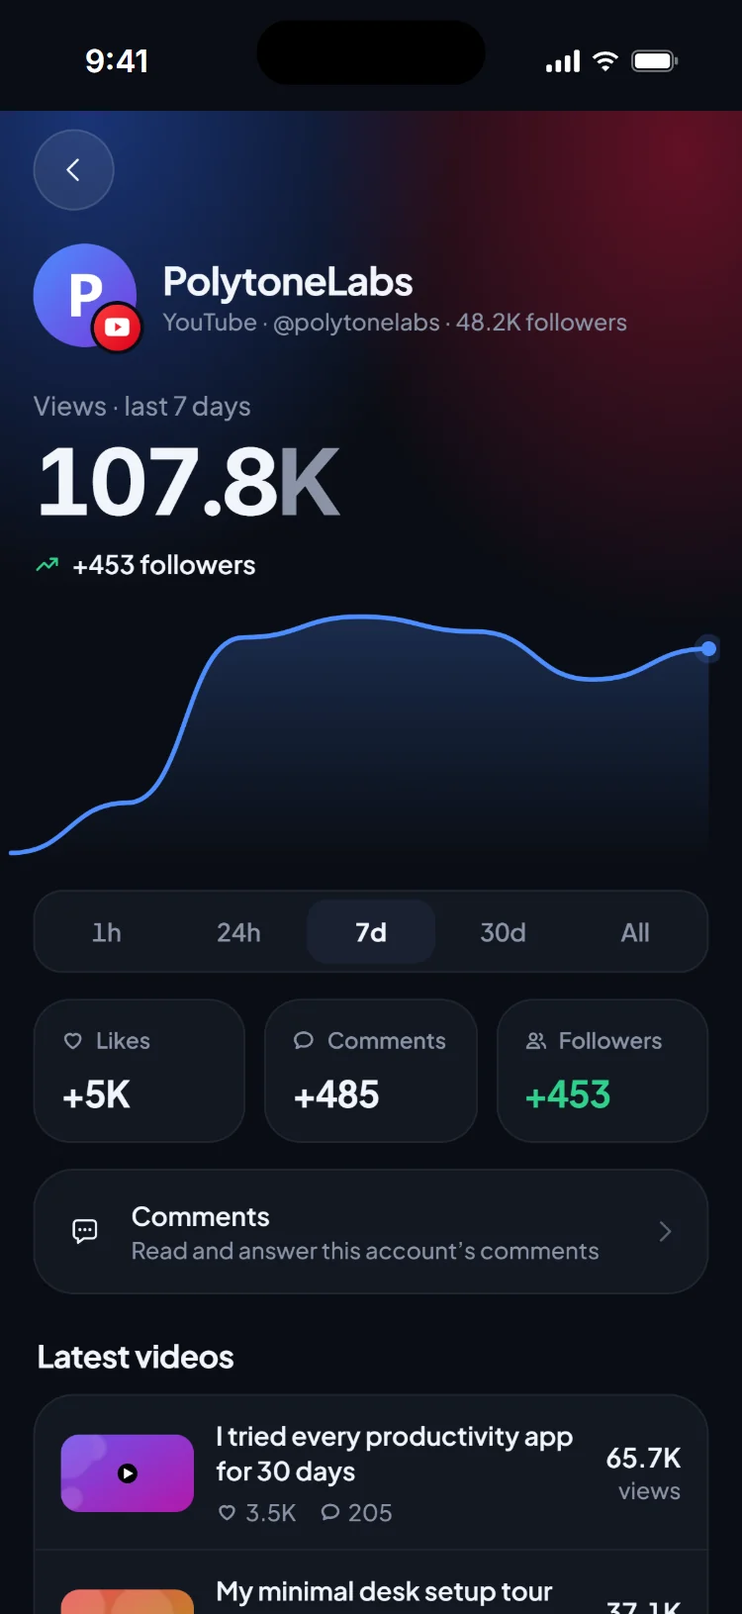
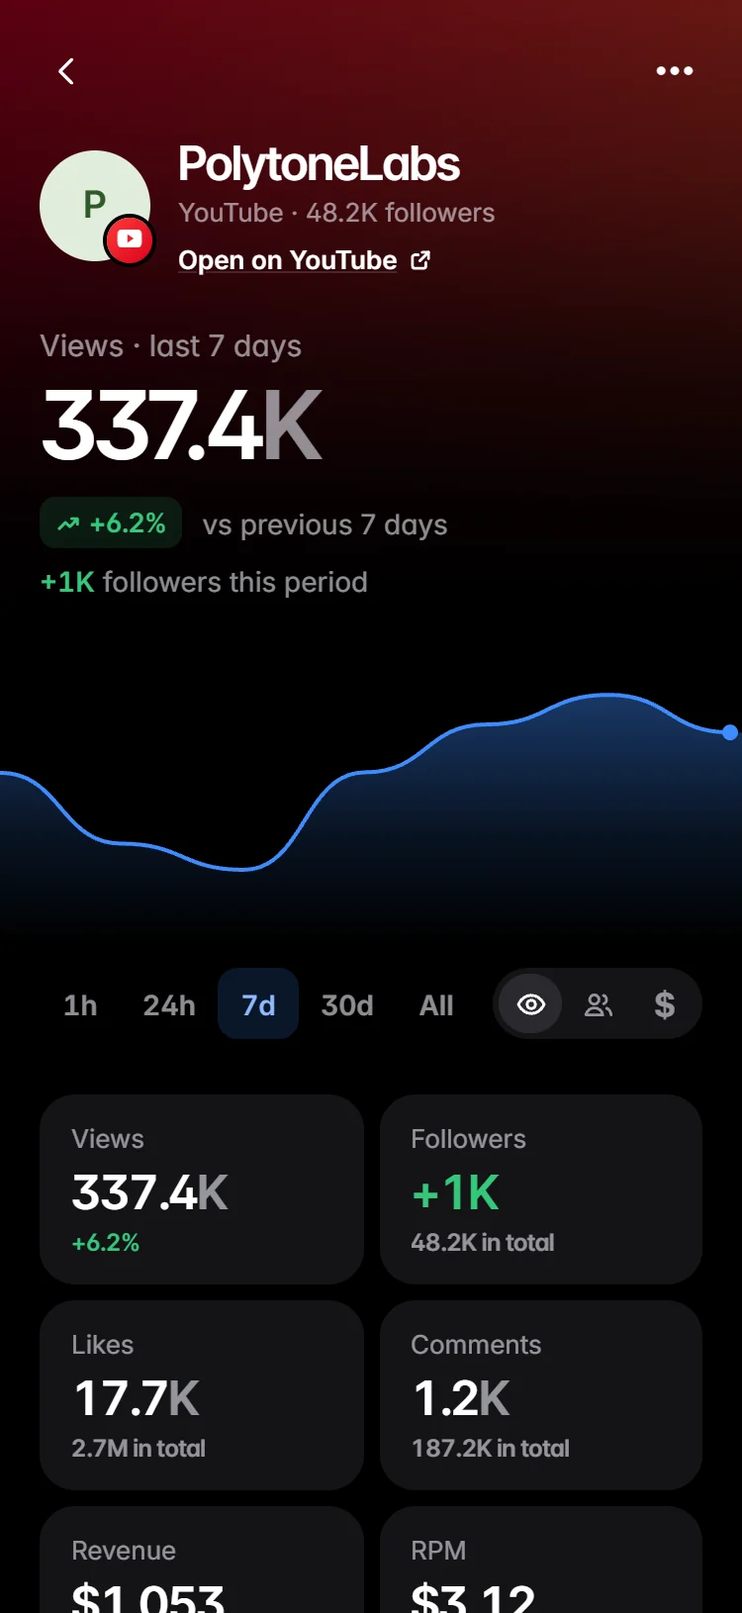
.

diff --git a/index.html b/index.html
@@ -82,7 +82,7 @@
    "screenshot": [
     "https://getoneviewapp.com/img/screen-home.webp",
     "https://getoneviewapp.com/img/screen-account.webp",
-    "https://getoneviewapp.com/img/screen-goals.webp"
+    "https://getoneviewapp.com/img/screen-revenue.webp"
    ],
    "operatingSystem": "iOS, Android",
    "applicationCategory": "BusinessApplication",
@@ -91,6 +91,8 @@
    },
    "featureList": [
     "YouTube, TikTok and Instagram stats in one app",
+    "Views, followers and YouTube revenue charts",
+    "YouTube revenue, RPM and CPM",
     "Publish one video to YouTube, TikTok and Instagram at once",
     "Custom thumbnails",
     "Goals for every account",
@@ -98,7 +100,7 @@
     "Compare any period",
     "YouTube and Instagram comments with bot detection",
     "New post tracking",
-    "Shareable reports",
+    "Free weekly and monthly shareable reports",
     "Home Screen widgets",
     "Workspaces for several channels or clients"
    ],
@@ -151,7 +153,7 @@
      "name": "Is OneView free?",
      "acceptedAnswer": {
       "@type": "Answer",
-      "text": "Yes. The free plan covers one workspace with one YouTube, one TikTok and one Instagram account, your combined stats for the last hour, 24 hours and 7 days, a page per account, weekly reports and milestone notifications. OneView Pro costs €4.99 a month or €39.99 a year, and eligible new subscribers get the first 7 days free."
+      "text": "Yes. The free plan covers one workspace with one YouTube, one TikTok and one Instagram account, your combined stats for the last hour, 24 hours and 7 days, a page per account, weekly and monthly reports, the YouTube revenue chart and milestone notifications. OneView Pro costs €4.99 a month or €39.99 a year, and eligible new subscribers get the first 7 days free."
      }
     },
     {
@@ -440,7 +442,7 @@ footer.wrap{margin-top:32px;padding-bottom:40px}
     </div>
     <div class="phones" aria-label="Screenshots of the OneView app">
       <div class="phone side left"><img src="img/screen-account.webp" alt="A YouTube account page with its views chart" width="750" height="1630"></div>
-      <div class="phone side right"><img src="img/screen-goals.webp" alt="Goals for each account with progress rings" width="750" height="1630"></div>
+      <div class="phone side right"><img src="img/screen-revenue.webp" alt="A YouTube channel's estimated revenue, its chart and RPM" width="750" height="1630"></div>
       <div class="phone main"><img fetchpriority="high" src="img/screen-home.webp" alt="OneView home screen with combined views and the chart" width="750" height="1630"></div>
     </div>
   </section>
@@ -451,7 +453,8 @@ footer.wrap{margin-top:32px;padding-bottom:40px}
       <ul>
         <li><strong>What:</strong> one app for the stats of your YouTube, TikTok and Instagram accounts.</li>
         <li><strong>Publish:</strong> post one video to all three at once, each with its own options and thumbnail.</li>
-        <li><strong>Also:</strong> goals per account, best time to post, period comparisons, comments with bot detection, reports and Home Screen widgets.</li>
+        <li><strong>Charts:</strong> views, followers (green when you gain, red when you lose) and YouTube revenue, switched with one tap.</li>
+        <li><strong>Also:</strong> YouTube revenue, RPM and CPM, goals per account, best time to post, period comparisons, comments with bot detection, free weekly and monthly reports and Home Screen widgets.</li>
         <li><strong>Price:</strong> free plan; Pro at €4.99/month or €39.99/year, first 7 days free.</li>
         <li><strong>Phones:</strong> iPhone and Android.</li>
         <li><strong>Privacy:</strong> official sign-in, your data stays on your phone, nothing sold.</li>
@@ -463,7 +466,7 @@ footer.wrap{margin-top:32px;padding-bottom:40px}
     <h2>Five tabs. <span>Nothing twice.</span></h2>
     <p class="muted">Every screen has one job, so you always know where to look. Switch workspace from Home and every tab follows.</p>
     <div class="tabs">
-      <div class="card tab"><div class="ic"><svg width="20" height="20" viewBox="0 0 24 24" fill="none" stroke="currentColor" stroke-width="2" stroke-linecap="round" stroke-linejoin="round"><path d="M4 11.5 12 4.5l8 7V20a1 1 0 0 1-1 1h-4.5v-5.5h-5V21H5a1 1 0 0 1-1-1z"/></svg></div><h3>Home</h3><p>Your total views, one chart for every platform, your accounts and your profile.</p></div>
+      <div class="card tab"><div class="ic"><svg width="20" height="20" viewBox="0 0 24 24" fill="none" stroke="currentColor" stroke-width="2" stroke-linecap="round" stroke-linejoin="round"><path d="M4 11.5 12 4.5l8 7V20a1 1 0 0 1-1 1h-4.5v-5.5h-5V21H5a1 1 0 0 1-1-1z"/></svg></div><h3>Home</h3><p>Your total views, followers or YouTube revenue, one chart for every platform, your accounts and your profile.</p></div>
       <div class="card tab"><div class="ic"><svg width="20" height="20" viewBox="0 0 24 24" fill="none" stroke="currentColor" stroke-width="2" stroke-linecap="round"><path d="M5 20V12M10 20V6M15 20v-9M20 20V9"/></svg></div><h3>Stats</h3><p>Words that work, best time, comparisons, top and flop.</p></div>
       <div class="card tab"><div class="ic"><svg width="20" height="20" viewBox="0 0 24 24" fill="none" stroke="currentColor" stroke-width="2" stroke-linecap="round" stroke-linejoin="round"><path d="M12 14.5V3.8M8 7.6l4-4 4 4"/><path d="M7.5 10.5H7a2.5 2.5 0 0 0-2.5 2.5v5A2.5 2.5 0 0 0 7 20.5h10a2.5 2.5 0 0 0 2.5-2.5v-5a2.5 2.5 0 0 0-2.5-2.5h-.5"/></svg></div><h3>Publish</h3><p>Post one video everywhere and follow or cancel uploads.</p></div>
       <div class="card tab"><div class="ic"><svg width="20" height="20" viewBox="0 0 24 24" fill="none" stroke="currentColor" stroke-width="2" stroke-linecap="round" stroke-linejoin="round"><path d="M6 21V4M6 4.5c4-2 7 2 12 0v9c-5 2-8-2-12 0"/></svg></div><h3>Goals</h3><p>A goal for each account, with the date you'll reach it.</p></div>
@@ -479,7 +482,7 @@ footer.wrap{margin-top:32px;padding-bottom:40px}
         <div>
           <div class="ic"><svg width="20" height="20" viewBox="0 0 24 24" fill="none" stroke="currentColor" stroke-width="2" stroke-linecap="round" stroke-linejoin="round"><path d="M3 17l5-5 4 3 8-8"/><path d="M15 7h5v5"/></svg></div>
           <h3>One chart for every platform</h3>
-          <p>Your combined views and followers, with a chart you can slide your finger along. The last hour, 24 hours and 7 days are free; 30 days and all time come with Pro.</p>
+          <p>Your combined views, followers or YouTube revenue: switch with the eye, people and $ buttons, then slide your finger along the chart. Followers won show in green, followers lost in red, for every account. The last hour, 24 hours and 7 days are free; 30 days and all time come with Pro.</p>
         </div>
         <div class="platforms">
           <div class="plat" style="background:radial-gradient(120px 100px at 0% 0%,rgba(47,107,255,.35),transparent),radial-gradient(120px 100px at 100% 0%,rgba(255,23,68,.35),transparent),var(--card2)">YouTube<small>Videos and Shorts</small></div>
@@ -487,7 +490,8 @@ footer.wrap{margin-top:32px;padding-bottom:40px}
           <div class="plat" style="background:radial-gradient(120px 100px at 0% 0%,rgba(37,244,238,.28),transparent),radial-gradient(120px 100px at 100% 0%,rgba(254,44,85,.3),transparent),var(--card2)">TikTok<small>Every TikTok</small></div>
         </div>
       </div>
-      <div class="card feat"><div class="ic"><svg width="20" height="20" viewBox="0 0 24 24" fill="none" stroke="currentColor" stroke-width="2" stroke-linecap="round" stroke-linejoin="round"><rect x="3" y="4" width="18" height="16" rx="3"/><path d="M3 9h18M8 14h3"/></svg></div><h3>Every account, up close</h3><p>A page per account in its platform's colors: views, likes, comments, followers and its latest videos, Shorts, TikToks and Reels.</p></div>
+      <div class="card feat"><div class="ic"><svg width="20" height="20" viewBox="0 0 24 24" fill="none" stroke="currentColor" stroke-width="2" stroke-linecap="round" stroke-linejoin="round"><rect x="3" y="4" width="18" height="16" rx="3"/><path d="M3 9h18M8 14h3"/></svg></div><h3>Every account, up close</h3><p>A page per account in its platform's colors: views, likes, comments, followers and its latest videos, Shorts, TikToks and Reels, with its own views, followers and revenue charts.</p></div>
+      <div class="card feat"><div class="ic"><svg width="20" height="20" viewBox="0 0 24 24" fill="none" stroke="currentColor" stroke-width="2" stroke-linecap="round" stroke-linejoin="round"><path d="M12 3v18"/><path d="M16.5 7.5c-.7-1.4-2.4-2.3-4.5-2.3-2.6 0-4.5 1.4-4.5 3.3 0 4.6 9 2.4 9 7 0 2-2 3.4-4.5 3.4-2.3 0-4.1-1-4.8-2.6"/></svg></div><h3>Your YouTube revenue</h3><p>Estimated earnings for the day, week, month or since the start, RPM, CPM, monetized playbacks and ad impressions, for your channel and for each video. Only YouTube shares money figures: TikTok and Instagram don't.</p></div>
       <div class="card feat wide">
         <div>
           <div class="ic"><svg width="20" height="20" viewBox="0 0 24 24" fill="none" stroke="currentColor" stroke-width="2" stroke-linecap="round" stroke-linejoin="round"><path d="M12 16V4M7 9l5-5 5 5"/><path d="M4 15v3a3 3 0 0 0 3 3h10a3 3 0 0 0 3-3v-3"/></svg></div>
@@ -503,8 +507,8 @@ footer.wrap{margin-top:32px;padding-bottom:40px}
       <div class="card feat"><div class="ic"><svg width="20" height="20" viewBox="0 0 24 24" fill="none" stroke="currentColor" stroke-width="2" stroke-linecap="round" stroke-linejoin="round"><path d="M7 4v13M4 14l3 3 3-3M17 20V7M14 10l3-3 3 3"/></svg></div><h3>Compare any period</h3><p>This hour, day, week, month or year vs the one before, with a % change for views, likes, comments and followers.</p></div>
       <div class="card feat"><div class="ic"><svg width="20" height="20" viewBox="0 0 24 24" fill="none" stroke="currentColor" stroke-width="2" stroke-linecap="round" stroke-linejoin="round"><path d="M4 6.5A2.5 2.5 0 0 1 6.5 4h11A2.5 2.5 0 0 1 20 6.5v7a2.5 2.5 0 0 1-2.5 2.5H10l-4 3.5V16a2 2 0 0 1-2-2z"/><path d="M8.5 10h7"/></svg></div><h3>All your comments</h3><p>A tab for YouTube and one for Instagram, from the newest comment to the oldest as you scroll, with Unanswered, quick replies and bot detection with a probability score.</p></div>
       <div class="card feat"><div class="ic"><svg width="20" height="20" viewBox="0 0 24 24" fill="none" stroke="currentColor" stroke-width="2" stroke-linecap="round" stroke-linejoin="round"><path d="M5 15c-1.5 1.5-2 5-2 5s3.5-.5 5-2M9 15l-3-3c1-4 5-8 13-9-1 8-5 12-9 13z"/><circle cx="14.5" cy="9.5" r="1.5"/></svg></div><h3>New post tracking</h3><p>Follow your newest post hour by hour for 48 hours and see if it beats your usual curve.</p></div>
-      <div class="card feat"><div class="ic"><svg width="20" height="20" viewBox="0 0 24 24" fill="none" stroke="currentColor" stroke-width="2" stroke-linecap="round" stroke-linejoin="round"><path d="M12 15V3M8 7l4-4 4 4"/><path d="M5 12v6a3 3 0 0 0 3 3h8a3 3 0 0 0 3-3v-6"/></svg></div><h3>Shareable reports</h3><p>Your week (or month, with Pro) as a story-ready image, for Instagram, WhatsApp or a client.</p></div>
-      <div class="card feat"><div class="ic"><svg width="20" height="20" viewBox="0 0 24 24" fill="none" stroke="currentColor" stroke-width="2" stroke-linecap="round" stroke-linejoin="round"><rect x="3" y="3" width="8" height="8" rx="2.5"/><rect x="13" y="3" width="8" height="8" rx="2.5"/><rect x="3" y="13" width="18" height="8" rx="2.5"/></svg></div><h3>Stats and goal widgets</h3><p>Pick a workspace, accounts and period, or a goal with a ring or a bar in your color, and keep it on your Home Screen. On iPhone and Android.</p></div>
+      <div class="card feat"><div class="ic"><svg width="20" height="20" viewBox="0 0 24 24" fill="none" stroke="currentColor" stroke-width="2" stroke-linecap="round" stroke-linejoin="round"><path d="M12 15V3M8 7l4-4 4 4"/><path d="M5 12v6a3 3 0 0 0 3 3h8a3 3 0 0 0 3-3v-6"/></svg></div><h3>Free shareable reports</h3><p>Your week or your month as a story-ready image, for Instagram, WhatsApp or a client. Free for everyone, no Pro needed.</p></div>
+      <div class="card feat"><div class="ic"><svg width="20" height="20" viewBox="0 0 24 24" fill="none" stroke="currentColor" stroke-width="2" stroke-linecap="round" stroke-linejoin="round"><rect x="3" y="3" width="8" height="8" rx="2.5"/><rect x="13" y="3" width="8" height="8" rx="2.5"/><rect x="3" y="13" width="18" height="8" rx="2.5"/></svg></div><h3>Stats and goal widgets</h3><p>Pick views, followers or YouTube revenue, a workspace, accounts and a period, or a goal with a ring or a bar in your color, and keep it on your Home Screen. On iPhone and Android.</p></div>
       <div class="card feat"><div class="ic"><svg width="20" height="20" viewBox="0 0 24 24" fill="none" stroke="currentColor" stroke-width="2" stroke-linecap="round" stroke-linejoin="round"><path d="M3 7.5 12 3l9 4.5-9 4.5z"/><path d="M3 12l9 4.5 9-4.5M3 16.5 12 21l9-4.5"/></svg></div><h3>Accounts and workspaces</h3><p>Connect several accounts per platform and group them into workspaces you can rename, like your own channels and each client.</p></div>
       <div class="card feat"><div class="ic"><svg width="20" height="20" viewBox="0 0 24 24" fill="none" stroke="currentColor" stroke-width="2" stroke-linecap="round" stroke-linejoin="round"><path d="M6 9a6 6 0 0 1 12 0c0 5 2 6.5 2 6.5H4S6 14 6 9z"/><path d="M10 19a2 2 0 0 0 4 0"/></svg></div><h3>Milestone alerts</h3><p>A notification when you pass 10K followers, when a post takes off with 3× your usual views, or when you reach a goal.</p></div>
       <div class="card feat"><div class="ic"><svg width="20" height="20" viewBox="0 0 24 24" fill="none" stroke="currentColor" stroke-width="2" stroke-linecap="round" stroke-linejoin="round"><rect x="6" y="2.5" width="12" height="19" rx="3"/><path d="M10 18.5h4"/></svg></div><h3>Native on every phone</h3><p>A clean dark design with the system's own tab bar: Liquid Glass on iPhone, Material on Android. Swipe between tabs, swipe an account to remove it.</p></div>
@@ -525,12 +529,13 @@ footer.wrap{margin-top:32px;padding-bottom:40px}
       <img src="img/shot-08.webp" alt="New post tracking" width="540" height="1174" loading="lazy">
       <img src="img/shot-09.webp" alt="Shareable report" width="540" height="1174" loading="lazy">
       <img src="img/shot-10.webp" alt="Home Screen widgets" width="540" height="1174" loading="lazy">
+      <img src="img/shot-11.webp" alt="YouTube revenue, RPM and CPM" width="540" height="1174" loading="lazy">
     </div>
   </section>
 
   <section id="pricing">
     <h2>Simple <span>pricing.</span></h2>
-    <p class="muted">Start for free. Upgrade when you want to publish everywhere, goals, insights and more accounts. Try Pro free for 7 days.</p>
+    <p class="muted">Start for free. Upgrade when you want to publish everywhere, goals, detailed analytics and more accounts. Try Pro free for 7 days.</p>
     <div class="plans">
       <div class="card plan">
         <h3>OneView</h3>
@@ -538,12 +543,12 @@ footer.wrap{margin-top:32px;padding-bottom:40px}
         <ul>
           <li>1 workspace</li>
           <li>1 YouTube, 1 TikTok and 1 Instagram account</li>
-          <li>Combined views, followers and chart</li>
+          <li>Combined views, followers and YouTube revenue, with their charts</li>
           <li>Last hour, 24 hours and 7 days</li>
           <li>A page per account with its latest posts</li>
-          <li>Weekly shareable report</li>
+          <li>Weekly and monthly shareable reports</li>
           <li>Milestone and viral post notifications</li>
-          <li class="no">Publishing, YouTube video editing, goals, insights, comparisons, new post tracking, comments, CSV and widgets</li>
+          <li class="no">Publishing, YouTube video editing, goals, detailed analytics, comparisons, new post tracking, comments, CSV and widgets</li>
         </ul>
       </div>
       <div class="card plan pro">
@@ -556,14 +561,14 @@ footer.wrap{margin-top:32px;padding-bottom:40px}
           <li>Publish a video to YouTube, TikTok and Instagram in one go</li>
           <li>Edit or delete your YouTube videos</li>
           <li>Unlimited accounts and workspaces</li>
-          <li>30-day and all-time stats and charts</li>
+          <li>30-day and all-time stats and charts, revenue included</li>
+          <li>Detailed analytics: watch time, retention, traffic sources, audience, YouTube RPM and CPM per channel and per video</li>
           <li>Unlimited goals for every account</li>
           <li>Words and hashtags that work</li>
           <li>Best time to post, top and flop content</li>
           <li>Compare any period, up to a full year</li>
           <li>New post tracking, hour by hour</li>
           <li>YouTube and Instagram comments inbox: unanswered tab, quick replies, bot detection</li>
-          <li>Monthly shareable reports</li>
           <li>CSV export of all your stats</li>
           <li>Stats and goal widgets for your Home Screen</li>
         </ul>
@@ -578,11 +583,14 @@ footer.wrap{margin-top:32px;padding-bottom:40px}
     <div class="faq">
       <details class="card"><summary>What is OneView?</summary><p>OneView is a mobile app for creators that brings the stats of your YouTube, TikTok and Instagram accounts into one place: views, likes, comments and followers, one chart for every platform, goals, the best time to post, your comments, and one button to publish a video to all your accounts at once.</p></details>
       <details class="card"><summary>Which platforms and phones does OneView support?</summary><p>OneView works with YouTube, TikTok and Instagram (professional accounts). The app runs on iPhone and Android, with Home Screen widgets on both.</p></details>
-      <details class="card"><summary>Is OneView free?</summary><p>Yes. The free plan covers one workspace with one YouTube, one TikTok and one Instagram account, your combined stats for the last hour, 24 hours and 7 days, a page per account, weekly reports and milestone notifications. OneView Pro costs €4.99 a month or €39.99 a year, and eligible new subscribers get the first 7 days free.</p></details>
+      <details class="card"><summary>Is OneView free?</summary><p>Yes. The free plan covers one workspace with one YouTube, one TikTok and one Instagram account, your combined stats for the last hour, 24 hours and 7 days, a page per account, weekly and monthly reports, the YouTube revenue chart and milestone notifications. OneView Pro costs €4.99 a month or €39.99 a year, and eligible new subscribers get the first 7 days free.</p></details>
       <details class="card"><summary>Can I publish one video to YouTube, TikTok and Instagram at once?</summary><p>Yes, with Pro. Pick a video, write the title, description and hashtags once, tick your accounts, and set each platform's options: visibility, made for kids, schedule and playlist on YouTube, who can watch or a draft in your TikTok inbox, Reel or Story on Instagram, plus a thumbnail. YouTube itself decides whether a video is a Short: vertical or square videos of 3 minutes or less become Shorts.</p></details>
       <details class="card"><summary>Can I reply to comments from OneView?</summary><p>Yes, for YouTube and Instagram: each platform has its own tab with All, Unanswered and Possible bots, loaded from the newest comment to the oldest as you scroll. You can reply, save quick replies and remove spam. TikTok does not give apps access to comments.</p></details>
       <details class="card"><summary>Does OneView see my passwords or sell my data?</summary><p>No. You sign in on Google, TikTok or Meta's own pages, and OneView never sees your password. Your tokens, stats and goals stay on your phone, nothing is sold or shared, and videos you publish go straight from your phone to the platform.</p></details>
       <details class="card"><summary>Can I manage several channels or clients?</summary><p>Yes. Group accounts into workspaces, for example your own channels and each client, and switch from the Home screen. Pro removes the limits on accounts and workspaces.</p></details>
+      <details class="card"><summary>Can I see how much I earn on YouTube?</summary><p>Yes. Connect your YouTube channel and tap the $ button above the chart: your estimated revenue for the period, its chart, and on your channel's page the RPM and CPM. Each video's page shows its own revenue. TikTok and Instagram don't share revenue with apps, so revenue only counts your YouTube channels.</p></details>
+      <details class="card"><summary>Why can I see some stats on one platform and not another?</summary><p>OneView brings three different platforms into one app, and each one shares different data with apps. Only YouTube gives revenue, RPM and CPM; TikTok doesn't let apps manage comments; Instagram doesn't give follower history. When a platform doesn't share something, OneView never makes it up: it's simply not shown for that platform.</p></details>
+      <details class="card"><summary>Are reports free?</summary><p>Yes. The weekly and the monthly report are free for everyone: a story-ready image of your views, followers and best post, to share with your community, a brand or a client.</p></details>
       <details class="card"><summary>How do I cancel OneView Pro?</summary><p>Pro is a subscription bought in the app through the App Store or Google Play. Cancel at any time in your App Store or Google Play account settings, at least 24 hours before the renewal.</p></details>
       <details class="card"><summary>Is OneView affiliated with YouTube, TikTok or Instagram?</summary><p>No. OneView is an independent app that uses the official YouTube, TikTok and Instagram APIs.</p></details>
     </div>
@@ -605,7 +613,7 @@ footer.wrap{margin-top:32px;padding-bottom:40px}
       <div class="ic"><svg width="26" height="26" viewBox="0 0 24 24" fill="none" stroke="currentColor" stroke-width="2" stroke-linecap="round" stroke-linejoin="round"><path d="M12 3l7 3v5c0 5-3 8.5-7 10-4-1.5-7-5-7-10V6z"/><path d="M9 12l2 2 4-4"/></svg></div>
       <div>
         <h2 style="font-size:26px">Private by design</h2>
-        <p class="muted">You sign in directly with Google, TikTok or Meta. Your tokens, statistics, goals and notifications stay on your device: no account to create, nothing sold or shared. Videos you publish go straight from your phone to YouTube, TikTok or Instagram, never through our servers. Reports are generated on your phone and only leave it when you share them. Payments are handled by Apple or Google. Disconnect an account at any time to delete its data.</p>
+        <p class="muted">You sign in directly with Google, TikTok or Meta. Your tokens, statistics, revenue figures, goals and notifications stay on your device: no account to create, nothing sold or shared. Videos you publish go straight from your phone to YouTube, TikTok or Instagram, never through our servers. Reports are generated on your phone and only leave it when you share them. Payments are handled by Apple or Google. Disconnect an account at any time to delete its data.</p>
       </div>
       <a class="btn" href="privacy.html">Privacy policy</a>
     </div>

diff --git a/privacy.html b/privacy.html
@@ -27,6 +27,7 @@
 <ul>
 <li>Profile information: display name, username and profile picture.</li>
 <li>Audience data: follower or subscriber count.</li>
+<li>YouTube revenue (only for a YouTube channel you connect, once you grant the revenue permission): your channel's and your videos' estimated revenue, RPM, CPM, monetized playbacks and ad impressions. TikTok and Instagram do not share revenue.</li>
 <li>Content statistics: titles, thumbnails, views, likes and comments of your videos and posts, and their publication dates.</li>
 <li>Comments on your own videos and posts (with OneView Pro): author name, text and date.</li>
 </ul>
@@ -57,14 +58,15 @@
 <p>OneView's use of information received from Google APIs adheres to the <a href="https://developers.google.com/terms/api-services-user-data-policy">Google API Services User Data Policy</a>, including the Limited Use requirements. OneView also uses the <a href="https://www.youtube.com/t/terms">YouTube API Services</a>.</p>
 
 <h2 id="google">5b. Google user data (YouTube)</h2>
-<p>When you connect a YouTube account, OneView requests three Google OAuth scopes:</p>
+<p>When you connect a YouTube account, OneView requests the following Google OAuth scopes:</p>
 <ul>
 <li><strong>youtube.readonly</strong>: to read your channel name, profile picture and subscriber count, and the list of your own videos with their titles, thumbnails, views, likes and comment counts.</li>
 <li><strong>yt-analytics.readonly</strong>: to read your channel's daily views, likes, comments and subscribers gained or lost, shown as charts and period totals.</li>
+<li><strong>yt-analytics-monetary.readonly</strong>: to read the estimated revenue of your own channel and of each of your videos (estimated revenue, ad revenue, gross revenue, RPM, CPM, playback-based CPM, monetized playbacks, ad impressions), shown as the revenue chart, the revenue figures of your channel and video pages, and, if you choose it, your Home Screen widget. Read-only: nothing is ever changed with it.</li>
 <li><strong>youtube.force-ssl</strong>: to read the comments on your own videos and, only when you tap the corresponding button, post a reply or delete / reject a comment, edit the title, description, tags, visibility or "made for kids" setting of one of your videos, delete one of your videos after you confirm it, or upload a video you picked to your channel.</li>
 </ul>
 <p><strong>Data access:</strong> OneView only accesses the raw data listed above, for the channel you choose to connect. It does not access any other Google service or account data.</p>
-<p><strong>Data use:</strong> Google user data is used only to show you your statistics, charts, goals, best-time-to-post insights, reports, comment inbox and widgets inside the app, to compute on-device notifications, and to carry out the edits and uploads you request. It is never used for advertising, profiling, lending or to train AI/ML models.</p>
+<p><strong>Data use:</strong> Google user data is used only to show you your statistics, revenue, charts, goals, best-time-to-post insights, reports, comment inbox and widgets inside the app, to compute on-device notifications, and to carry out the edits and uploads you request. It is never used for advertising, profiling, lending or to train AI/ML models.</p>
 <p><strong>Data transfer:</strong> Google user data, raw or aggregated, is not transferred, sold or shared with any third party, and is not sent to the developer. The only exception is a report image that you choose to share yourself through your device's share sheet.</p>
 <p><strong>Data protection:</strong> all requests go directly from your device to Google over HTTPS. OAuth tokens are stored in the device's secure storage (iOS Keychain / Android Keystore); statistics are stored in the app's private storage on your device.</p>
 <p><strong>Data retention and deletion:</strong> statistics history is kept on your device for up to 35 days. Disconnecting the YouTube account in the app (long-press → Remove) immediately deletes its tokens and data from your device; uninstalling the app removes everything. You can also revoke access at <a href="https://myaccount.google.com/permissions">myaccount.google.com/permissions</a>.</p>
